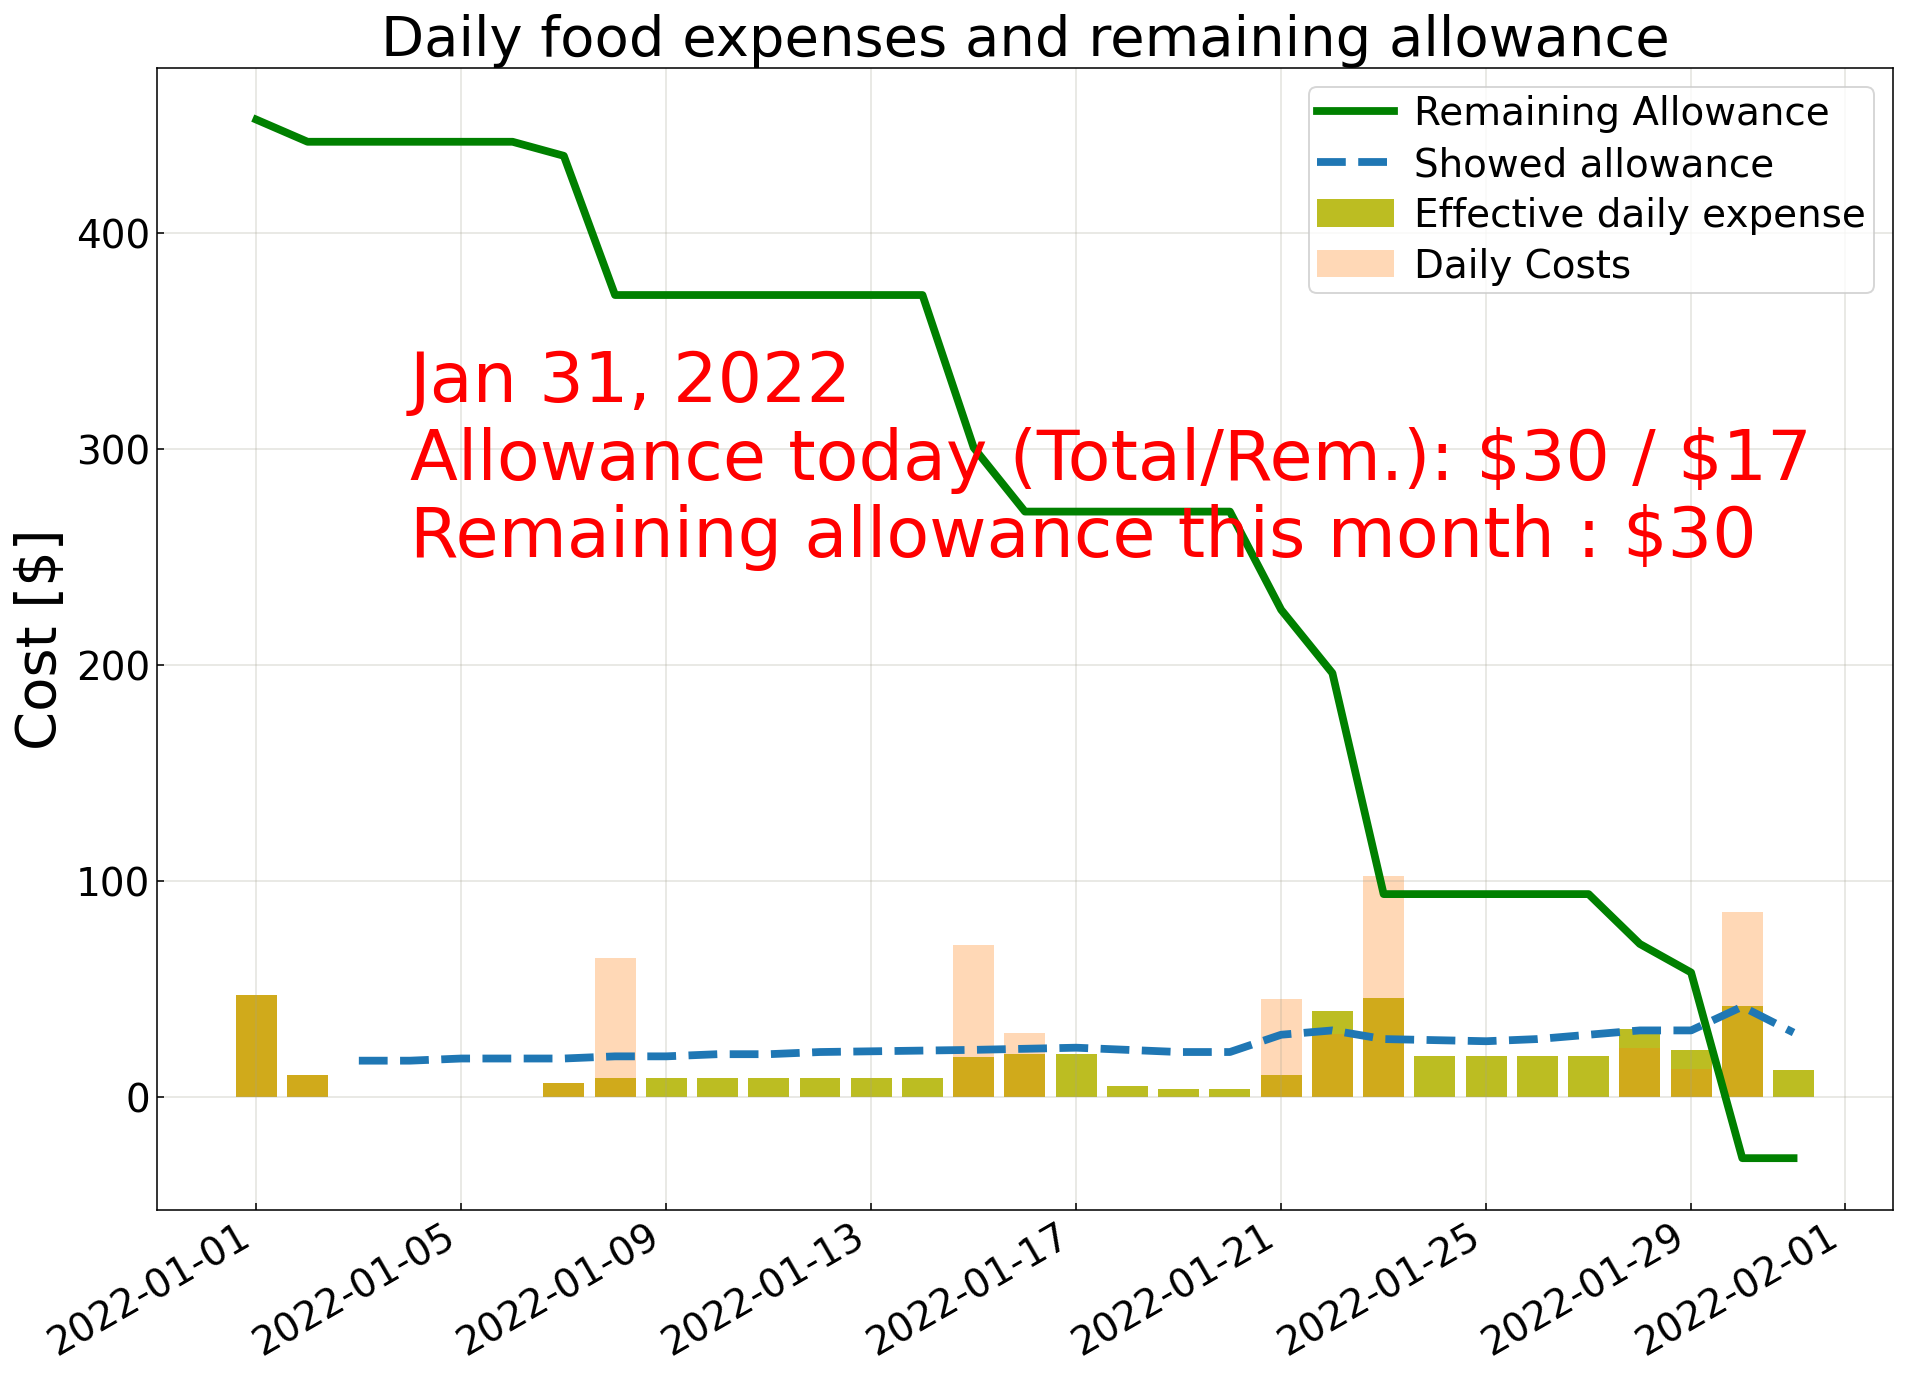
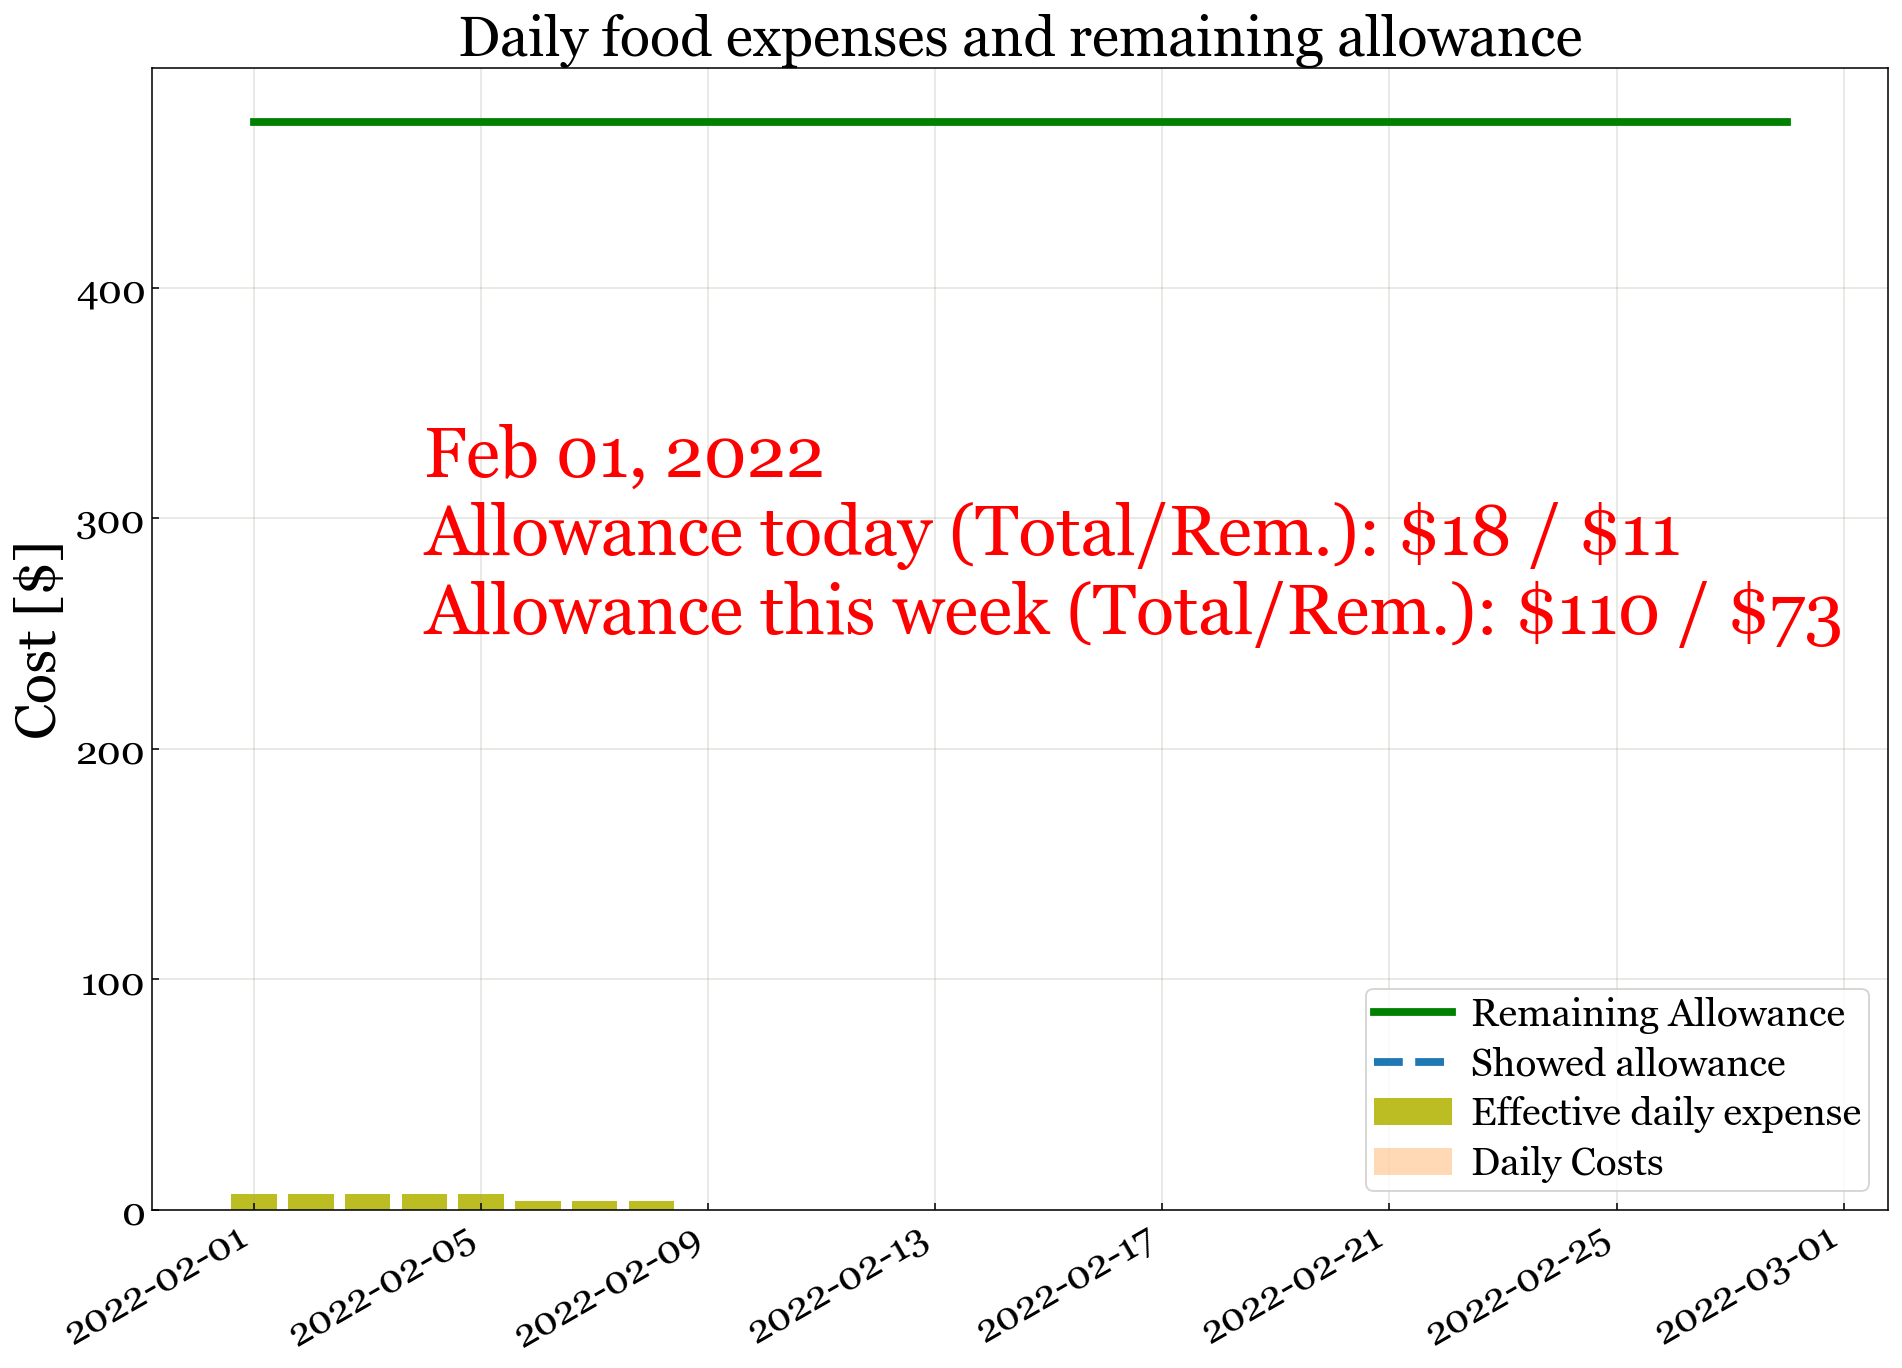
Added more functionalities

diff --git a/foodExpenses.py b/foodExpenses.py
@@ -1,5 +1,6 @@
 import gspread
 import numpy as np
+from traceback import print_exc
 from datetime import datetime, date, timedelta
 from dateutil.relativedelta import relativedelta
 from calendar import monthrange
@@ -73,25 +74,34 @@ def getData(spName="Food/Groceries expense monitor (Responses)",
     return ts, data
 
 
-def getMonthlyAllowance():
-    try:
-        with open('monthlyAllowance.txt', 'r') as f:
-            allLines = f.readlines()
-            mon = datetime.now().date().month
-            for line in allLines:
-                if mon == datetime.strptime(line.split(' ')[0],
-                                            '%m/%d/%Y').date().month:
-                    return int(line.split(' ')[1])
-    except BaseException:
-        pass
+def getMonthlyAllowance(dat):
+    with open('monthlyAllowance.txt', 'r') as f:
+        allLines = f.readlines()
+        monArr = []
+        monAll = []
+        for line in allLines:
+            splits = line.split(' ')
+            monArr += [datetime.strptime(splits[0], '%m/%d/%Y').date()]
+            monAll += [int(splits[1])]
+    for ii, mon in enumerate(monArr):
+        if dat.year == mon.year and dat.month == mon.month:
+            return monAll[ii]
     with open('monthlyAllowance.txt', 'a+') as f:
-        f.write(datetime.now().date().strftime('%m/%d/%Y ')
-                + str(defaultMonthlyAllowance))
+        f.write(dat.strftime('%m/%d/%Y ')
+                + str(defaultMonthlyAllowance) + '\n')
         return defaultMonthlyAllowance
 
 
+def allAllowances():
+    dat = startDate
+    allowance = 0
+    while dat <= datetime.now().date():
+        allowance += getMonthlyAllowance(dat)
+        dat = dat + relativedelta(months=1)
+    return allowance
+
+
 def foodExpenses():
-    monthlyAllowance = getMonthlyAllowance()
     ts, data = getData()
     noEntries = len(ts)
     cost = np.zeros(noEntries)
@@ -108,19 +118,39 @@ def foodExpenses():
     tt = [startDate + timedelta(days=int(ii)) for ii in range(ttlen.days)]
     dailyCosts = np.zeros(ttlen.days)
     perDiumCost = np.zeros_like(dailyCosts)
+    remAllow = np.zeros_like(dailyCosts)
+    monLen = ((today.year - startDate.year) * 12
+              + today.month - startDate.month + 1)
+    monArr = [startDate + relativedelta(months=ii)
+              for ii in range(monLen)]
+    monArr2 = [dat + relativedelta(days=monthrange(dat.year, dat.month)[1]//2)
+               for dat in monArr]
+    monArr2[-1] = monArr[-1] + relativedelta(days=(today - monArr[-1]).days//2)
+    monWidths = [monthrange(ele.year, ele.month)[1] * 0.95 for ele in monArr]
+    monWidths[-1] = (today - monArr[-1]).days * 0.95
+    monCosts = np.zeros(monLen)
     todayInd = tt.index(today)
     monEndInd = tt.index(date(today.year, today.month, 1)
                          + relativedelta(months=1))
     weekEndInd = min(todayInd + 7 - today.weekday(), monEndInd)
 
     for ii in range(noEntries):
-        if today.month == dates[ii].month:
-            ttind = dates[ii].day - 1
-            dF = int(daysFor[ii])
-            dailyCosts[ttind] += cost[ii]
-            perDiumCost[ttind:ttind+dF] += np.ones(dF) * cost[ii] / dF
+        ttind = tt.index(dates[ii])
+        monInd = monArr.index(date(dates[ii].year, dates[ii].month, 1))
+        dF = int(daysFor[ii])
+        dailyCosts[ttind] += cost[ii]
+        perDiumCost[ttind:ttind+dF] += np.ones(dF) * cost[ii] / dF
+        monCosts[monInd] += cost[ii]
 
-    thisMonRemAllow = monthlyAllowance - np.sum(perDiumCost[:todayInd])
+    for ii in range(ttlen.days):
+        if ii != 0:
+            remAllow[ii] = remAllow[ii-1]
+        if tt[ii].day == 1:
+            remAllow[ii] += getMonthlyAllowance(tt[ii])
+        remAllow[ii] -= dailyCosts[ii]
+
+
+    thisMonRemAllow = allAllowances() - np.sum(perDiumCost[:todayInd])
     todayAllowance = thisMonRemAllow / (totalDays - today.day + 1)
     thisWeekAllow = todayAllowance * (7 - today.weekday())
     todayRemAllow = todayAllowance - perDiumCost[todayInd]
@@ -178,16 +208,38 @@ def foodExpenses():
            color='tab:olive')
     ax.bar(tt[i0:i1], dailyCosts[i0:i1], label='Daily Costs',
            color='tab:orange', alpha=0.3)
-    ax.plot(tt[i0:i1], (monthlyAllowance - np.cumsum(dailyCosts))[i0:i1],
-            label='Remaining Allowance', color='green')
+    ax.plot(tt[i0:i1],remAllow[i0:i1], label='Remaining Allowance',
+            color='green')
+    # ax.plot(tt[i0:i1], (monthlyAllowance - np.cumsum(dailyCosts))[i0:i1],
+    #         label='Remaining Allowance', color='green')
     ax.plot(ttSA[i2:], showedAllowance[i2:], label='Showed allowance',
             color='tab:blue', ls='--')
     ax.legend()
     ax.set_title('Daily food expenses and remaining allowance')
     ax.set_ylabel('Cost [$]')
-    ax.text(tt[3], monthlyAllowance/2, motd, fontsize=36, color='red')
+    ax.text(tt[i0 + 3], 250, motd, fontsize=36, color='red')
     fig.autofmt_xdate()
     fig.savefig('DailyCostsAndParameters.png')
+
+
+    fig, ax = plt.subplots(1, 1, figsize=[16, 12])
+    ax.bar(monArr2, monCosts, label='Monthly Costs', color='grey',
+           width=monWidths, alpha=0.3)
+    ax.bar(tt[:todayInd + 1], perDiumCost[:todayInd + 1], label='Effective daily expense',
+           color='tab:olive')
+    ax.bar(tt[:todayInd + 1], dailyCosts[:todayInd + 1], label='Daily Costs',
+           color='tab:orange', alpha=0.3)
+    ax.plot(tt[:todayInd + 1],remAllow[:todayInd + 1], label='Remaining Allowance',
+            color='green')
+    # ax.plot(tt[i0:i1], (monthlyAllowance - np.cumsum(dailyCosts))[i0:i1],
+    #         label='Remaining Allowance', color='green')
+    ax.plot(ttSA, showedAllowance, label='Showed allowance',
+            color='tab:blue', ls='--')
+    ax.legend()
+    ax.set_title('Daily food expenses and remaining allowance')
+    ax.set_ylabel('Cost [$]')
+    fig.autofmt_xdate()
+    fig.savefig('allTimeCostsAndParameters.png')
 
 
 if __name__ == "__main__":

diff --git a/README.md b/README.md
@@ -5,3 +5,6 @@
 Repository to track food expenses and inform daily allowance in the month.
 
 ![DailyCostsAndParameters](https://github.com/anchal-physics/foodExpenses/blob/main/DailyCostsAndParameters.png)
+
+
+![allTimeCostsAndParameters](https://github.com/anchal-physics/foodExpenses/blob/main/allTimeCostsAndParameters.png)
